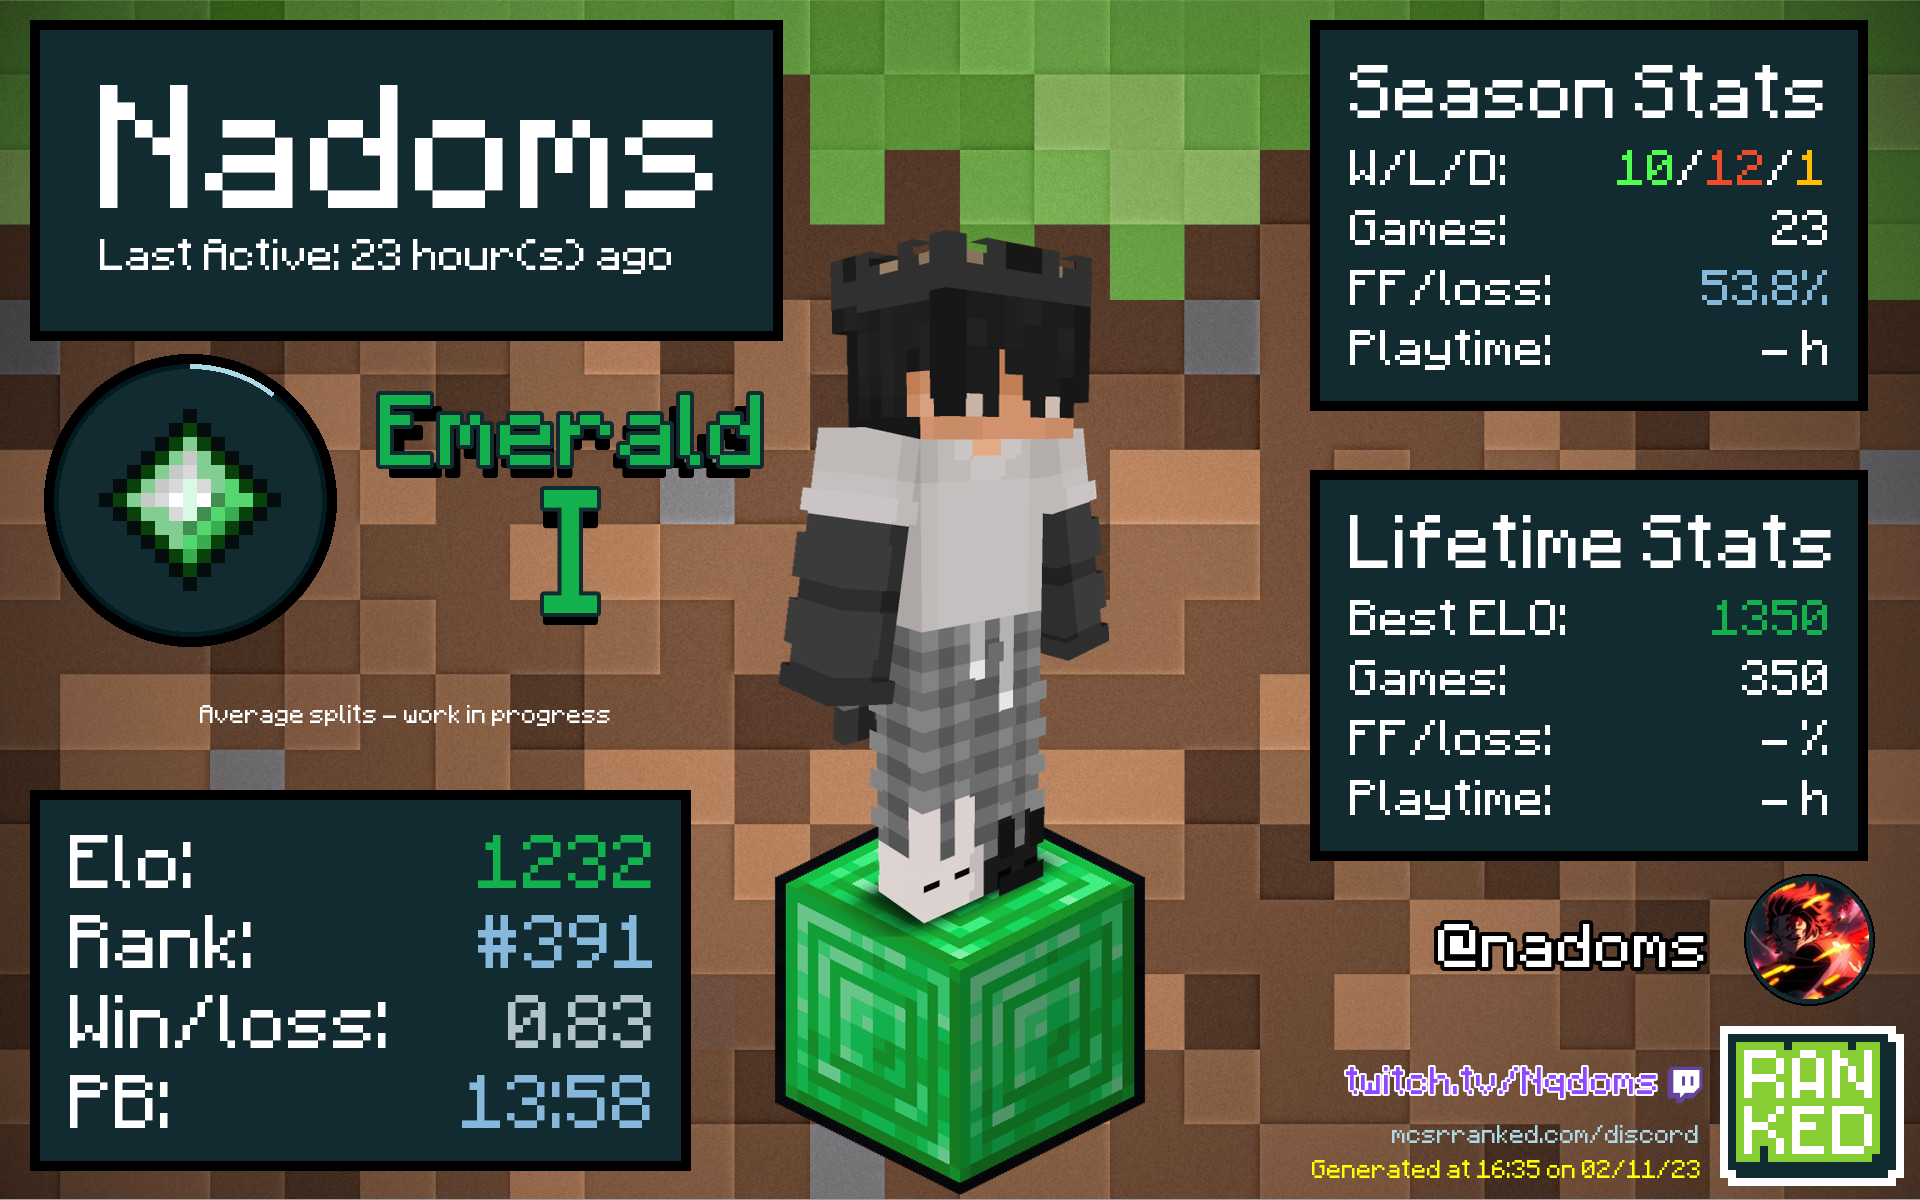
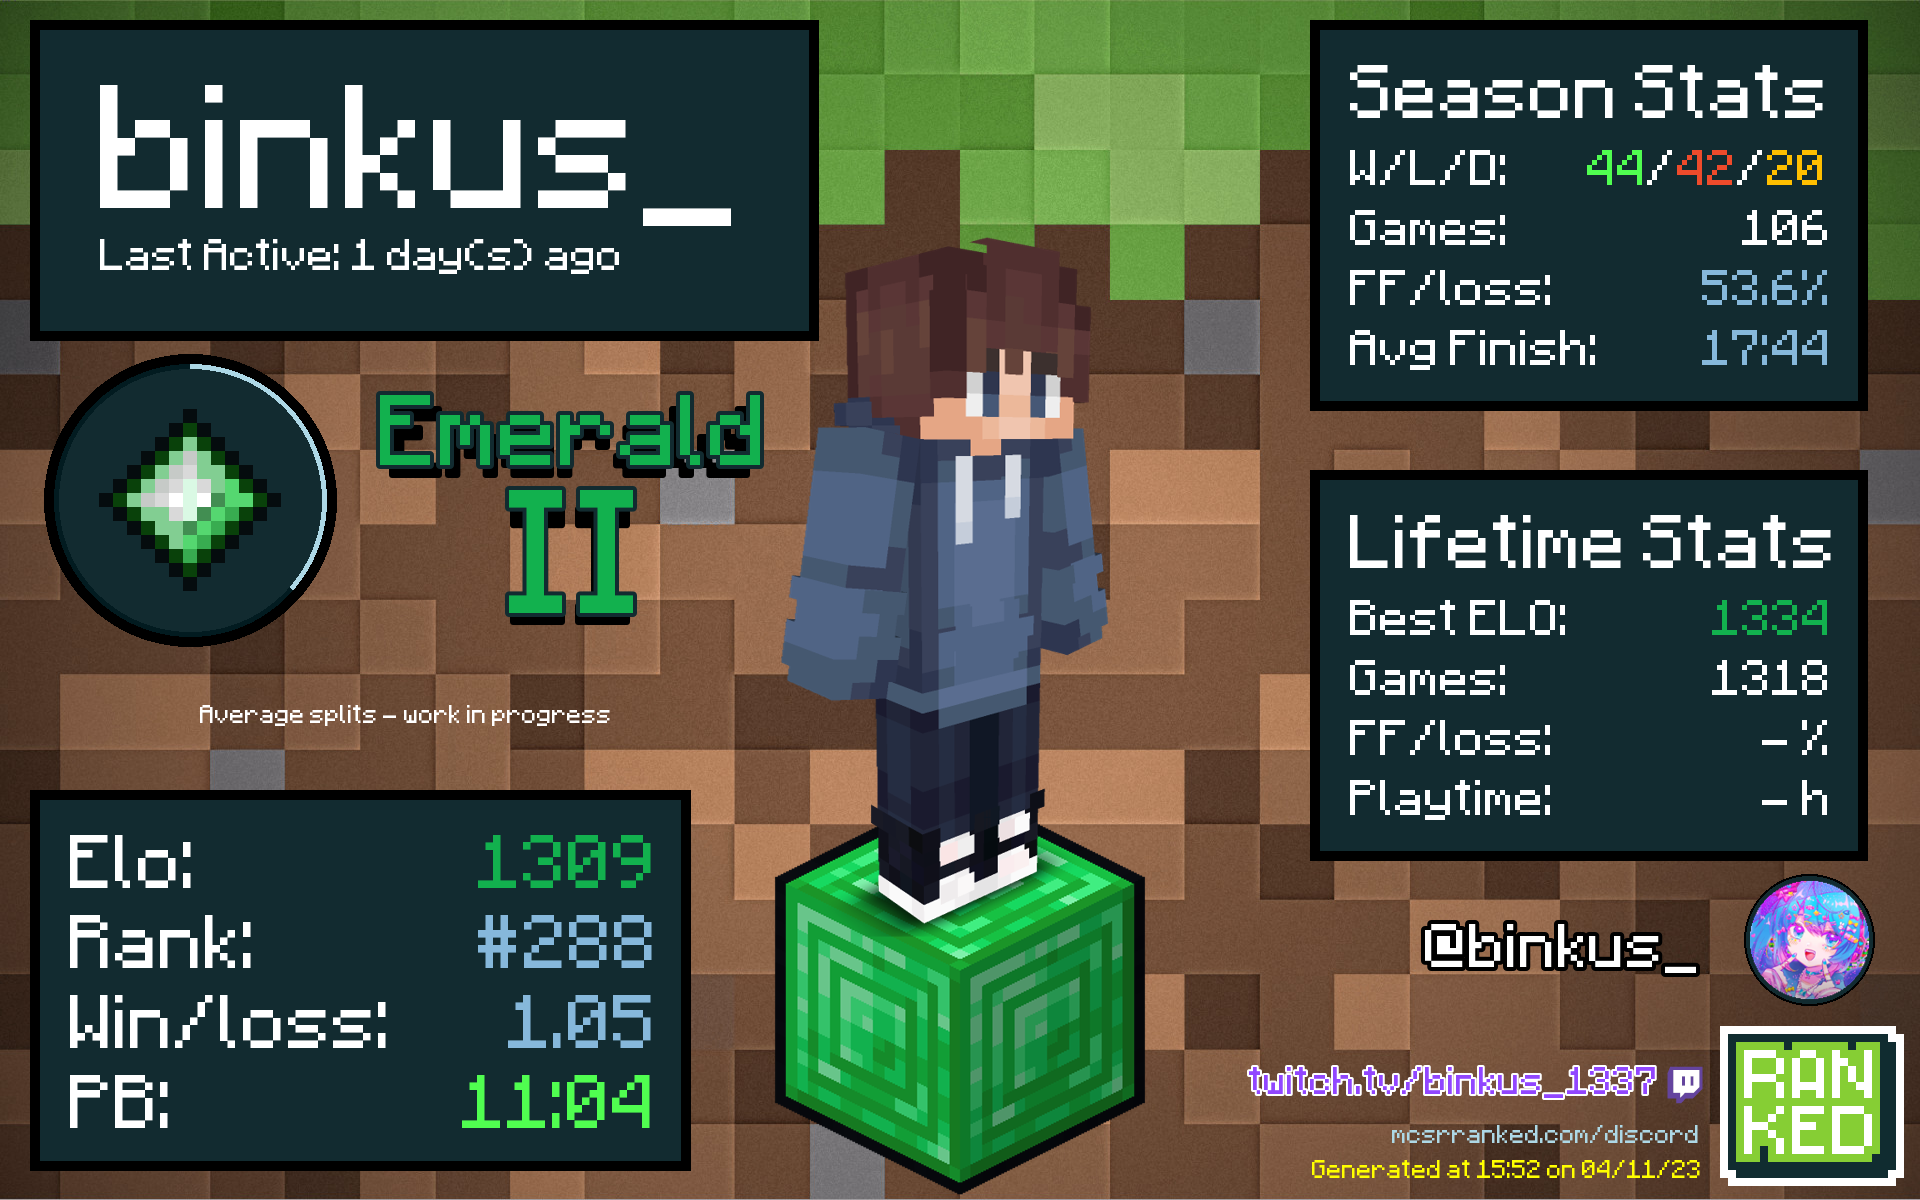
Implemented new average completion feature

diff --git a/src/card_functions/add_stats.py b/src/card_functions/add_stats.py
@@ -15,6 +15,7 @@ def write(card, name, uuid, response):
     rank_colour = ["#888888", "#b3c4c9", "#86b8db", "#50fe50", "#0f52ba", "#cd7f32", "#c0c0c0", "#ffd700"]
     win_loss_colour = ["#888888", "#b3c4c9", "#86b8db", "#50fe50", "#0f52fa", "#ffd700"]
     pb_colour = ["#888888", "#b3c4c9", "#86b8db", "#50fe50", "#0f52fa", "#ffd700"]
+    avg_completion_colour = ["#888888", "#b3c4c9", "#86b8db", "#50fe50", "#0f52fa", "#ffd700"]
     ff_loss_colour = ["#bb3030", "#ff6164", "#86b8db", "#50fe50", "#0f52fa", "#ffd700"]
     w_d_l_colour = ["#50fe50", "#ee4b2b", "#ffbf00"]
     white = "#ffffff"
@@ -57,6 +58,27 @@ def write(card, name, uuid, response):
             else:
                 rounded_ff_loss = 0
             statted_image.text((1827-word.calc_length(season_stats[1][i], 40), 140+i*60), season_stats[1][i], font=stat_font, fill=ff_loss_colour[rounded_ff_loss])
+        elif i == 3:
+            if season_stats[1][i] == ":00":
+                season_stats[1][i] = "-"
+                rounded_avg_completion = -1
+            else:
+                rounded_avg_completion = int(season_stats[1][i].split(":")[0])
+            if rounded_avg_completion >= 26:
+                rounded_avg_completion = 0
+            elif rounded_avg_completion >= 21:
+                rounded_avg_completion = 1
+            elif rounded_avg_completion >= 17:
+                rounded_avg_completion = 2
+            elif rounded_avg_completion >= 15:
+                rounded_avg_completion = 3
+            elif rounded_avg_completion >= 13:
+                rounded_avg_completion = 4
+            elif rounded_avg_completion >= 7:
+                rounded_avg_completion = 5
+            else:
+                rounded_avg_completion = 0
+            statted_image.text((1827-word.calc_length(season_stats[1][i], 40), 140+i*60), season_stats[1][i], font=stat_font, fill=avg_completion_colour[rounded_avg_completion])
         else:
             statted_image.text((1827-word.calc_length(season_stats[1][i], 40), 140+i*60), season_stats[1][i], font=stat_font, fill=white)
 
@@ -155,16 +177,16 @@ def get_season_stats(response, matches, uuid):
     draws = str(response["records"]["2"]["draw"])
     games = str(response["season_played"])
     recent_ff_loss = str(match.get_ff_loss(matches, True, uuid, response["nickname"]))
-    playtime = "-" # str(match.get_playtime(matches, True))
+    recent_avg_completion = str(timedelta(milliseconds=match.get_avg_completion(matches, True, uuid, response)))[2:7].lstrip("0")
 
     return [["W/L/D:",
              "Games:",
              "FF/loss:",
-             "Playtime:"],
+             "Avg Finish:"],
             [f"{wins}/{losses}/{draws}",
              games,
-             f"{recent_ff_loss}",
-             f"{playtime} h"]]
+             recent_ff_loss,
+             recent_avg_completion]]
 
 def get_lifetime_stats(response, matches, uuid):
     best_elo = str(response["best_elo_rate"])

diff --git a/src/gen_functions/match.py b/src/gen_functions/match.py
@@ -49,8 +49,7 @@ def get_ff_loss(matches, season, uuid, name):
                     losses += 1
                     if match["forfeit"] == True:
                         forfeits += 1
-                continue
-            if match["match_season"] == current_season:
+            elif match["match_season"] == current_season:
                 if match["winner"] != uuid:
                     losses += 1
                     if match["forfeit"] == True:
@@ -61,6 +60,26 @@ def get_ff_loss(matches, season, uuid, name):
     
     forfeit_loss = round(forfeits / losses * 100, 1)
     return forfeit_loss
+
+def get_avg_completion(matches, season, uuid, name):
+    current_season = get_season()
+    total_time = 0
+    completions = 0
+
+    for match in matches:
+        if match["winner"] == uuid and match["forfeit"] == False:
+            if not season:
+                total_time += match["final_time"]
+                completions += 1
+            elif match["match_season"] == current_season:
+                total_time += match["final_time"]
+                completions += 1
+
+    if completions == 0:
+        return 0
+    
+    avg_completion = round(total_time / completions, 0)
+    return avg_completion
 
 def get_season():
     return 3
